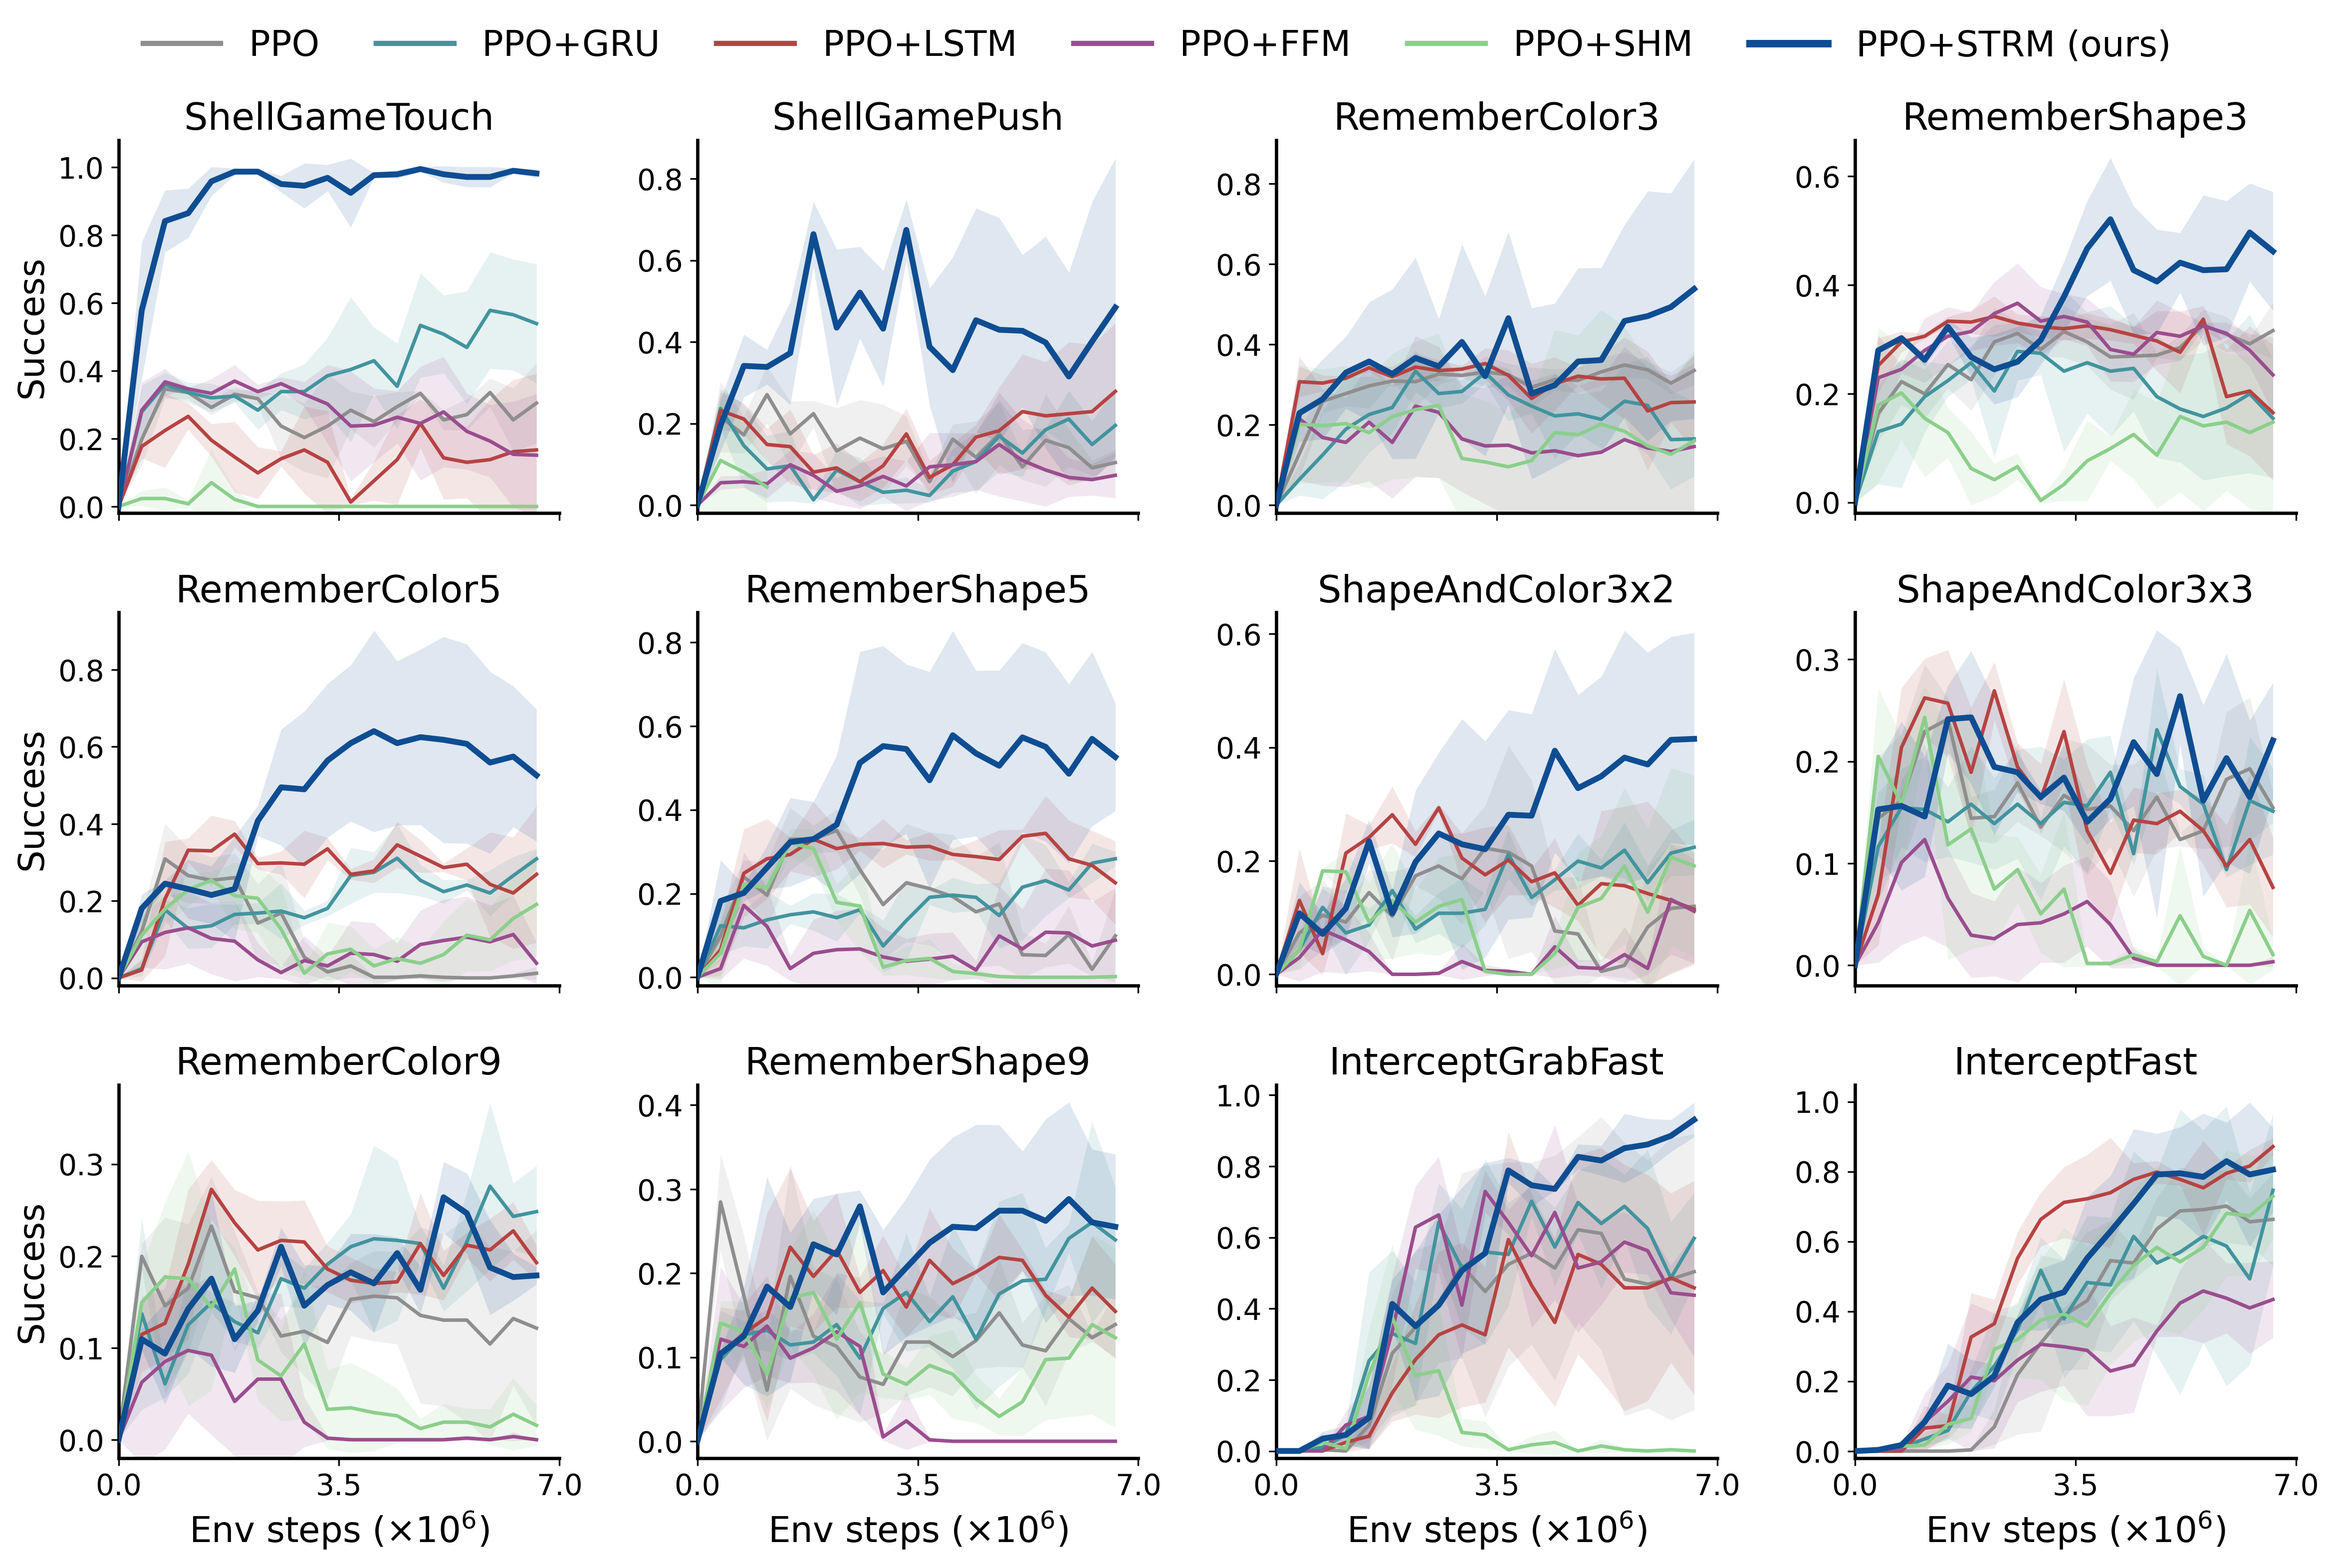
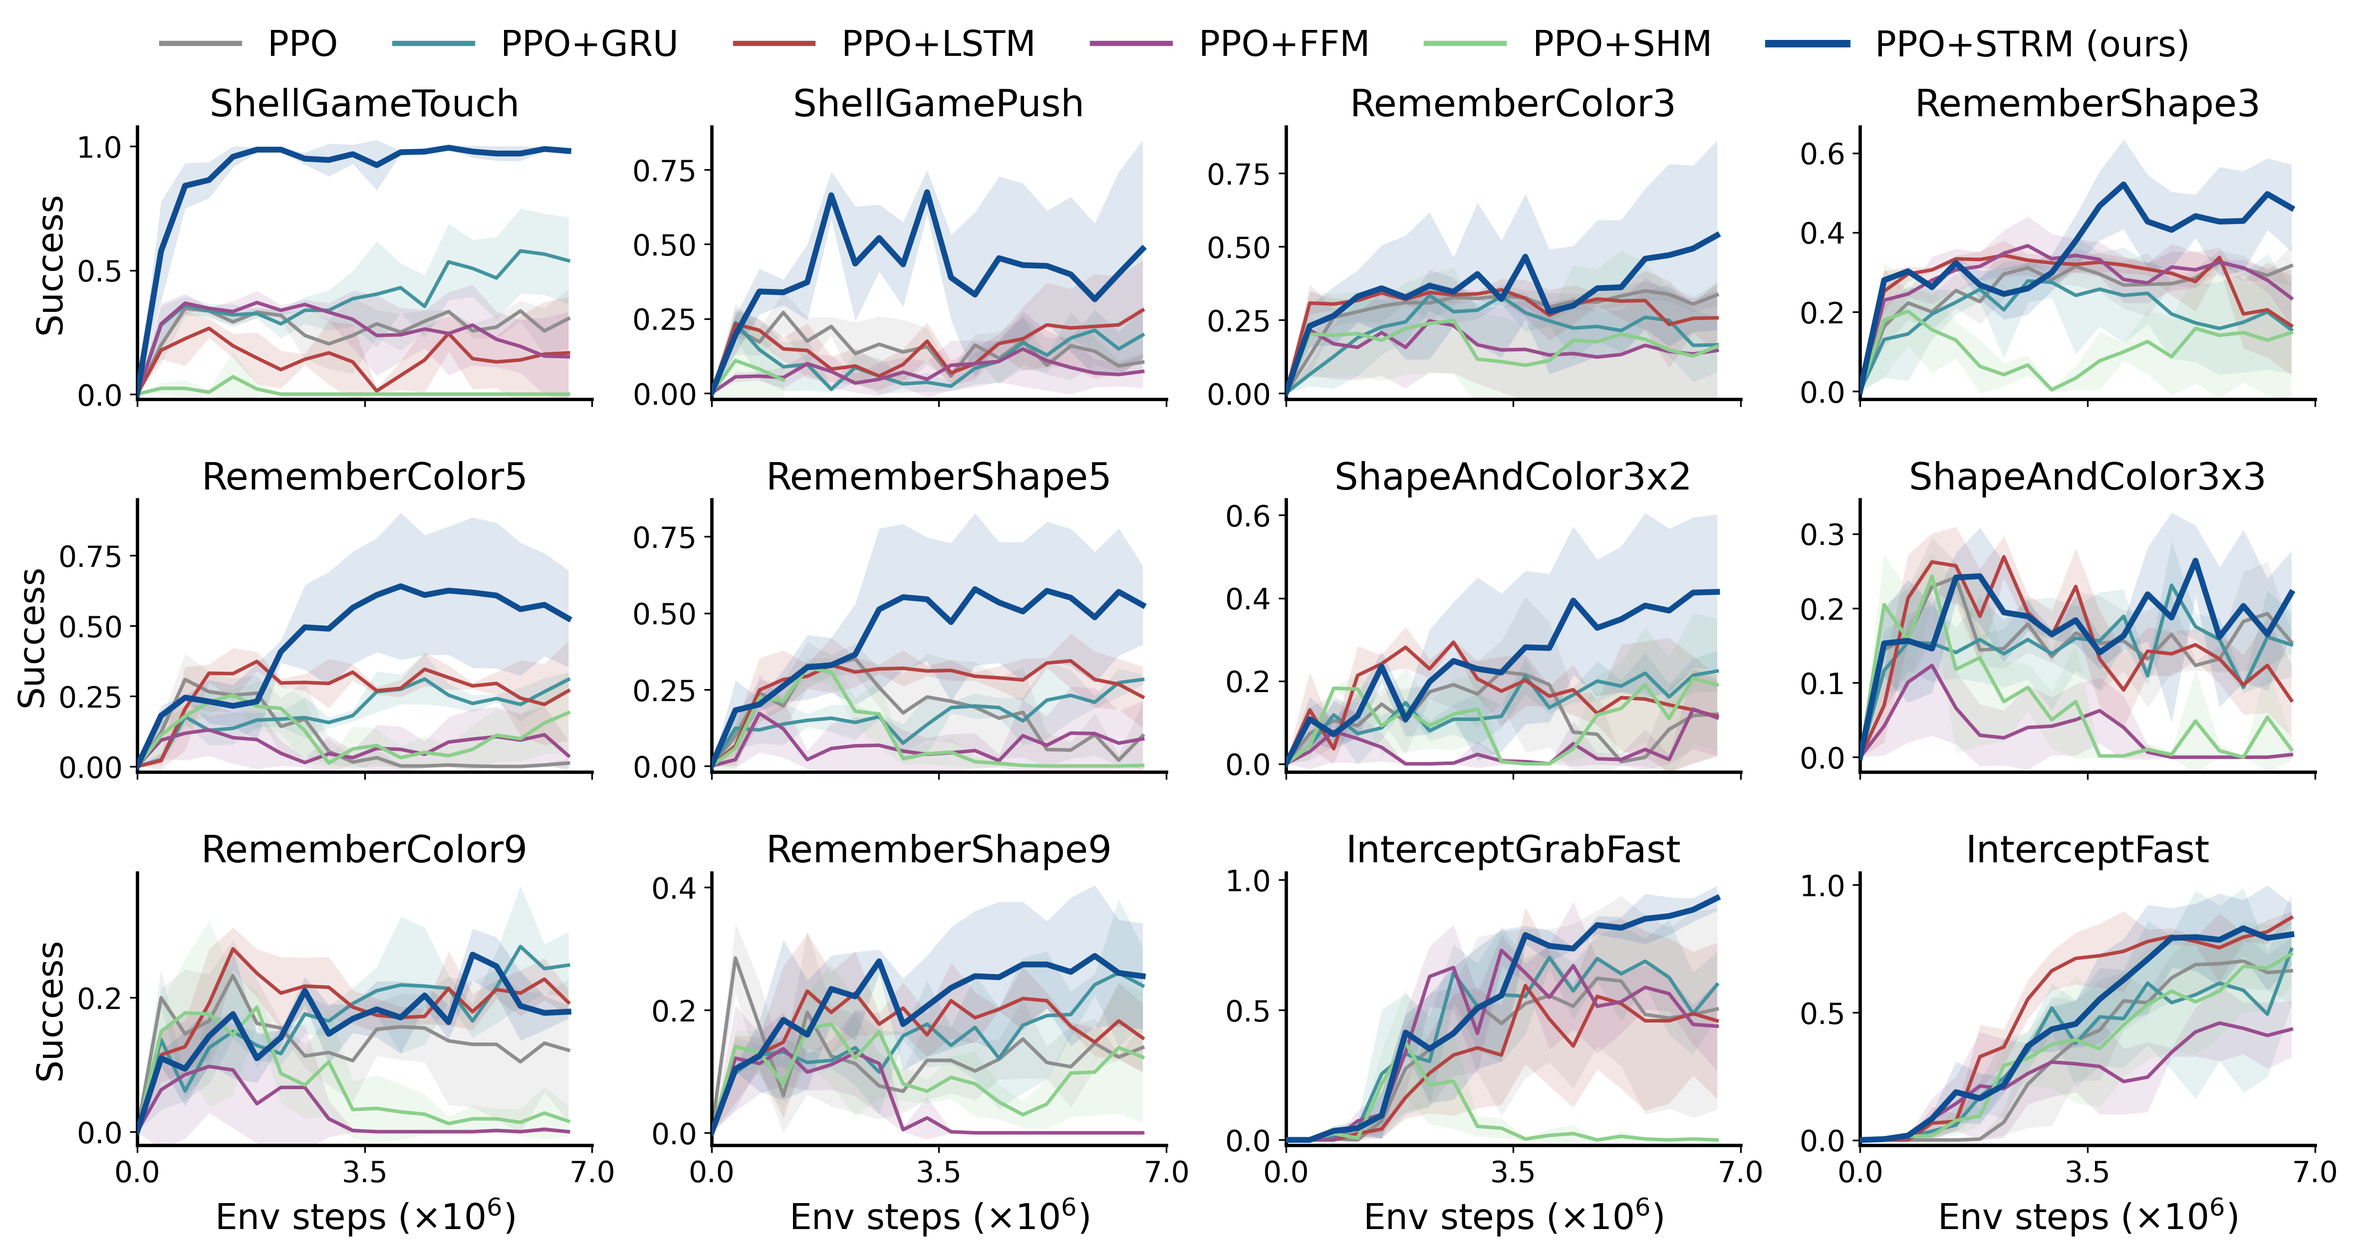
curves figure: reduce height (16x10.2 -> 16x8.2) for paper float layout

diff --git a/analysis/paper_main.py b/analysis/paper_main.py
@@ -111,7 +111,7 @@ plt.rcParams.update({
     "axes.linewidth": 1.6, "axes.spines.top": False, "axes.spines.right": False,
     "legend.frameon": False, "pdf.fonttype": 42, "ps.fonttype": 42,
 })
-fig, axes = plt.subplots(3, 4, figsize=(16, 10.2), sharex=True)
+fig, axes = plt.subplots(3, 4, figsize=(16, 8.2), sharex=True)
 axes = axes.ravel()
 for i, (env, short, cfg, fam) in enumerate(TASKS):
     ax = axes[i]
